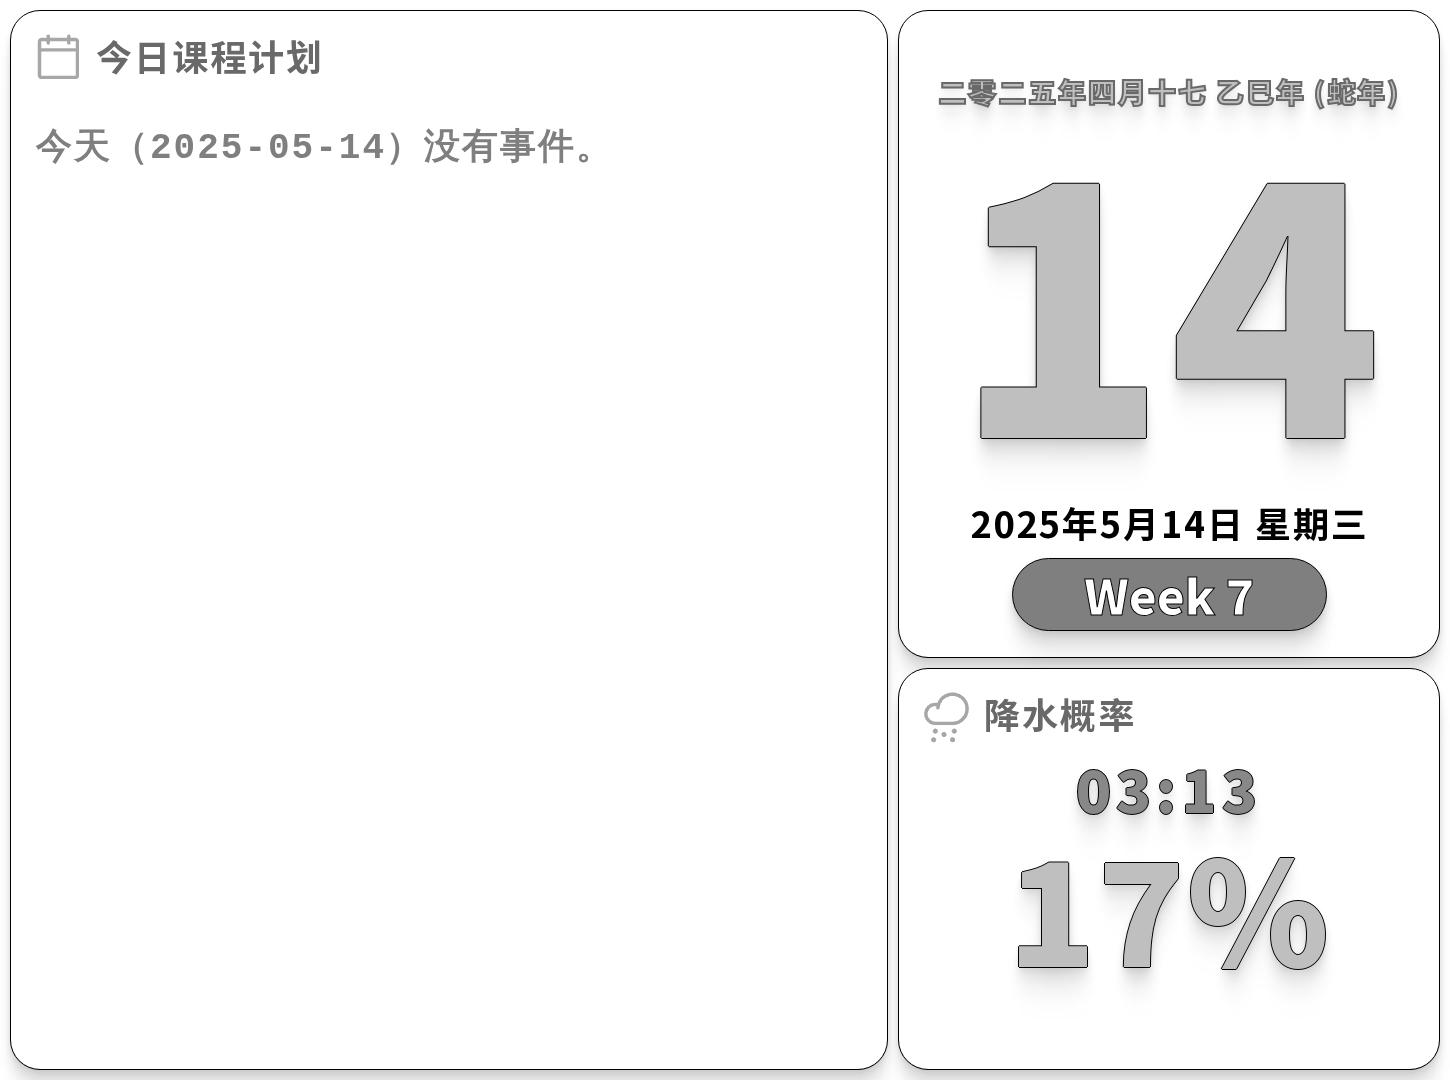
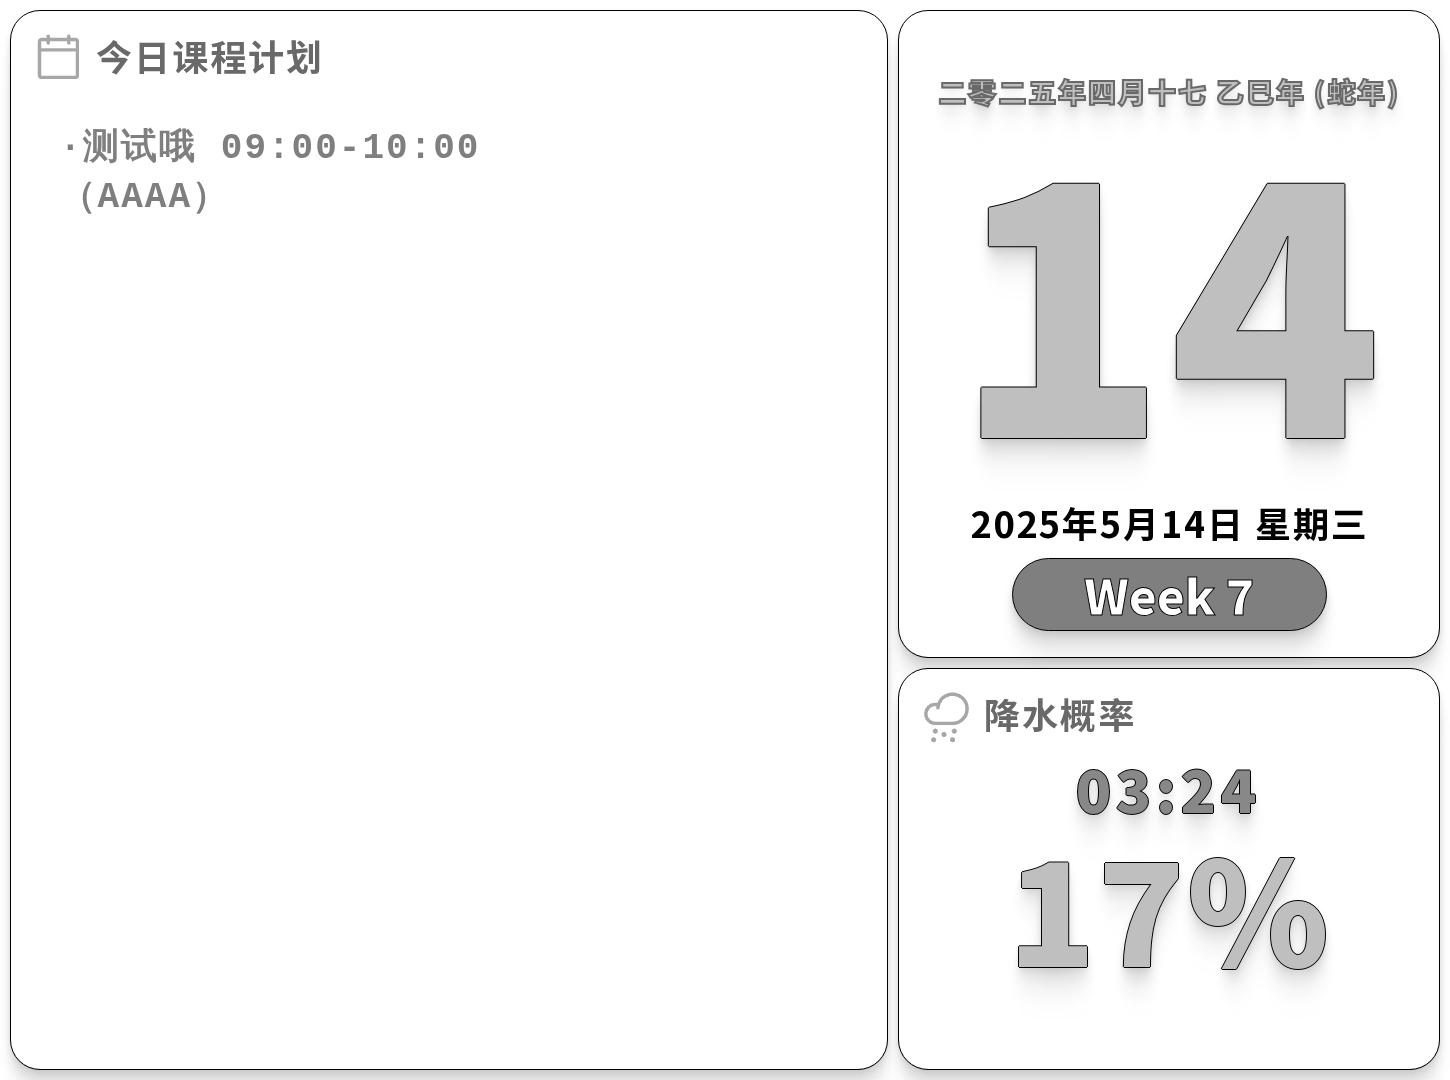
ver1.0.4 Bug fixes

Changed region(s): [[0.031, 0.1222, 0.4034, 0.2139], [0.8069, 0.7028, 0.869, 0.7639]]

diff --git a/calendar.html b/calendar.html
@@ -17,7 +17,8 @@
                         <img class="icon" src="./CalendarBlank.png">
                         <h2>今日课程计划</h2>
                     </div>
-                    <pre class="schedule">今天（2025-05-14）没有事件。</pre>
+                    <pre class="schedule"> ·测试哦 09:00-10:00
+ （AAAA）</pre>
                 </div>
             </div>
         </div>
@@ -41,7 +42,7 @@
                             <img class="icon" src="./CloudSnow.png">
                             <h2>降水概率</h2>
                         </div>
-                        <p class="time">03:13</p>
+                        <p class="time">03:24</p>
                         <p class="percentage">17%</p>
                     </div>
                 </div>

diff --git a/gethtml.py b/gethtml.py
@@ -16,7 +16,6 @@ num_week = 6
 percentage = "67%"
 
 schedule = "测试\n测试\n测试"
-url = "https://p215-caldav.icloud.com.cn/published/2/MTY5NDM3NDIyODkxNjk0MxQGglZSrjcCCgbEAcXHCbH1PEeMJlXixNdWItQaJ3vTpLQG9mBKbwfAoA3nGulbAnNxSzx-Nh8QY1dQ9ZSBoTQ"
 disp_time = datetime.now().strftime("%H:%M")
 
 #实现代码
